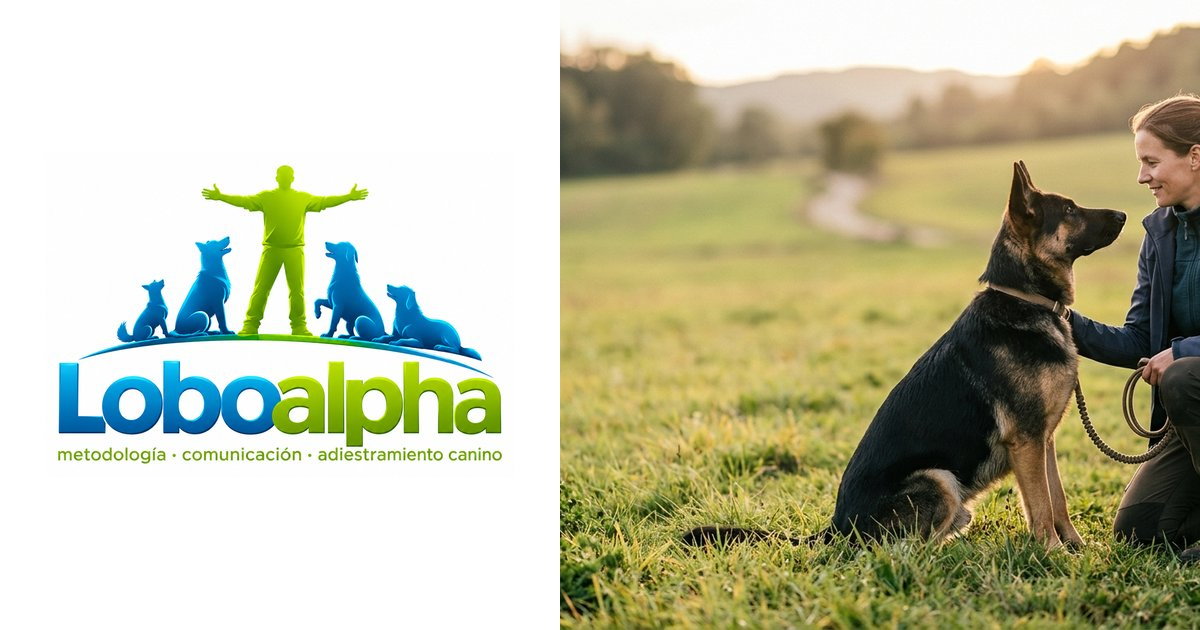
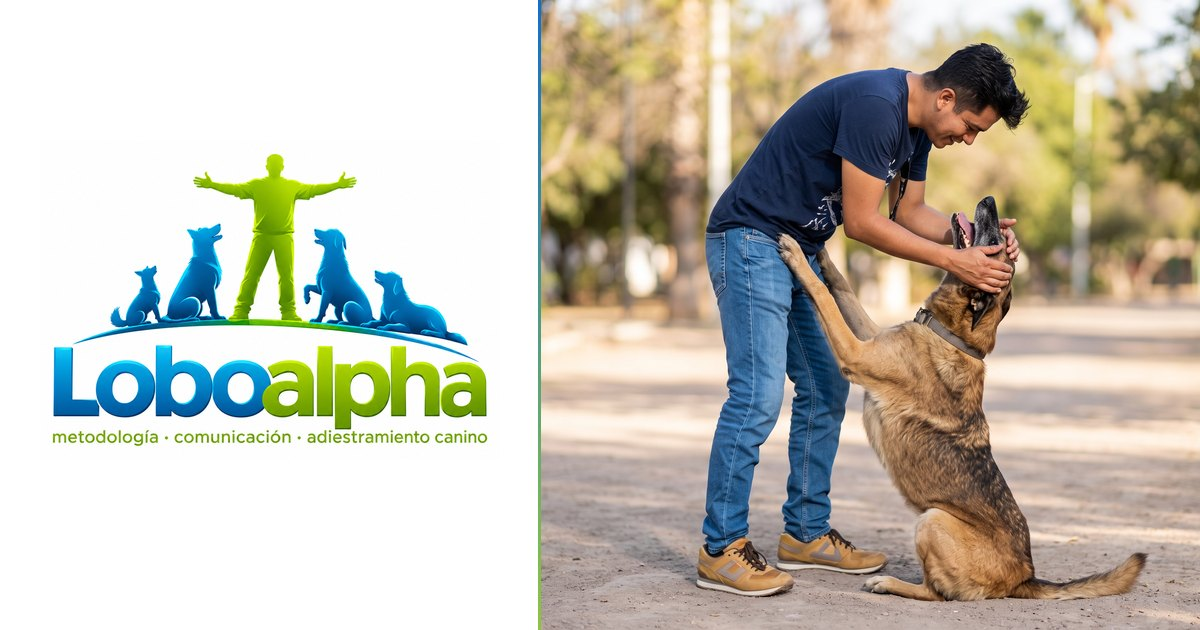
feat: configurar whatsapp +52 8186866182, mensajes cta y nueva imagen OpenGraph con Javier Banos

diff --git a/index.html b/index.html
@@ -57,6 +57,7 @@
         "slogan": "Metodología · Comunicación · Adiestramiento canino",
         "description": "Psicología, comportamiento, método natural de adiestramiento y comunicación intuitiva con animales en Monterrey y área metropolitana. Facilitado por Javier Baños.",
         "url": "https://www.loboalpha.com/",
+        "telephone": "+528186866182",
         "logo": "https://www.loboalpha.com/assets/img/logo-loboalpha-480.png",
         "image": "https://www.loboalpha.com/assets/img/og-loboalpha.jpg",
         "address": {
@@ -1018,9 +1019,10 @@
 
       <div class="footer-col">
         <h3>Contacto</h3>
-        <a class="footer-wa" href="#contacto" data-wa data-wa-msg="Hola Javier, quisiera información sobre los servicios de Loboalpha en Monterrey.">
-          <svg class="ico" aria-hidden="true"><use href="#i-whatsapp"/></svg> Escríbenos por WhatsApp
+        <a class="footer-wa" href="https://wa.me/528186866182?text=Hola%20Javier%2C%20quisiera%20informaci%C3%B3n%20sobre%20los%20servicios%20de%20Loboalpha%20en%20Monterrey." data-wa data-wa-msg="Hola Javier, quisiera información sobre los servicios de Loboalpha en Monterrey.">
+          <svg class="ico" aria-hidden="true"><use href="#i-whatsapp"/></svg> +52 81 8686 6182
         </a>
+        <p style="margin-top: .6rem; font-size: .88rem; color: #a9bbd0;">Atención directa por WhatsApp · Monterrey, N.L.</p>
         <h3 class="mt">Síguenos</h3>
         <ul class="socials">
           <li><a href="#contacto" data-social="instagram" aria-label="Loboalpha en Instagram"><svg aria-hidden="true"><use href="#i-instagram"/></svg></a></li>

diff --git a/assets/js/main.js b/assets/js/main.js
@@ -6,11 +6,10 @@
   "use strict";
 
   /* ---------- Configuración central ----------
-     IMPORTANTE: reemplazar por el número real de WhatsApp de Loboalpha
-     en formato internacional, solo dígitos (ej. 52 + lada + número).
-     Mientras esté vacío, los botones llevan a la sección de contacto. */
+     WhatsApp oficial de Loboalpha / Javier Baños: +52 81 8686 6182
+     Formato internacional sin signos: 528186866182 */
   const CONFIG = Object.freeze({
-    whatsappNumber: "", // ej. "5215512345678"
+    whatsappNumber: "528186866182",
     social: {
       instagram: "", // ej. "https://www.instagram.com/loboalpha"
       facebook: "",
@@ -23,7 +22,7 @@
   doc.classList.add("js");
 
   /* ---------- WhatsApp ---------- */
-  const DEFAULT_MSG = "Hola Loboalpha, me gustaría agendar una valoración para mi perro.";
+  const DEFAULT_MSG = "Hola Javier, me gustaría agendar una valoración para mi perro en Loboalpha.";
   const waLink = (msg) =>
     `https://wa.me/${CONFIG.whatsappNumber}?text=${encodeURIComponent(msg || DEFAULT_MSG)}`;
 

diff --git a/scripts/build_images.py b/scripts/build_images.py
@@ -124,27 +124,52 @@ def build_logo() -> Image.Image:
 
 
 def build_og(logo_trimmed: Image.Image) -> None:
-    hero_src = find_raw("hero")
     W, H = 1200, 630
     canvas = Image.new("RGB", (W, H), (255, 255, 255))
-    if hero_src:
-        hero = ImageOps.exif_transpose(Image.open(hero_src)).convert("RGB")
-        photo_w = 640
+    photo_w = 660
+
+    # Preferimos la foto real de Javier Baños con su perro
+    jb_src = find_raw("javier-banos")
+    if jb_src:
+        jb = ImageOps.exif_transpose(Image.open(jb_src)).convert("RGB")
+        jw, jh = jb.size
+        target_h = jh
+        target_w = int(target_h * (photo_w / H))
+        if target_w > jw:
+            target_w = jw
+            target_h = int(target_w / (photo_w / H))
+        crop_left = int((jw - target_w) * 0.45)
+        crop_top = int((jh - target_h) * 0.2)
+        jb_crop = jb.crop((crop_left, crop_top, crop_left + target_w, crop_top + target_h))
+        jb_resized = jb_crop.resize((photo_w, H), Image.LANCZOS)
+        canvas.paste(jb_resized, (W - photo_w, 0))
+    elif find_raw("hero"):
+        hero = ImageOps.exif_transpose(Image.open(find_raw("hero"))).convert("RGB")
         hero = crop_to_aspect(hero, photo_w / H)
-        hero = hero.resize((photo_w, H), Image.LANCZOS)
-        canvas.paste(hero, (W - photo_w, 0))
-    # Panel blanco con el logotipo Ãntegro
-    panel_w = 560
-    logo_w = 470
-    logo_h = round(logo_w * logo_trimmed.height / logo_trimmed.width)
-    lg = logo_trimmed.resize((logo_w, logo_h), Image.LANCZOS)
-    canvas.paste(Image.new("RGB", (panel_w, H), (255, 255, 255)), (0, 0))
-    canvas.paste(lg, ((panel_w - logo_w) // 2, (H - logo_h) // 2))
+        canvas.paste(hero.resize((photo_w, H), Image.LANCZOS), (W - photo_w, 0))
+
+    # Panel blanco para el logotipo Loboalpha
+    panel_w = W - photo_w
+    logo_target_w = 460
+    logo_target_h = round(logo_target_w * logo_trimmed.height / logo_trimmed.width)
+    lg = logo_trimmed.resize((logo_target_w, logo_target_h), Image.LANCZOS)
+    canvas.paste(lg, ((panel_w - logo_target_w) // 2, (H - logo_target_h) // 2 - 15))
+
+    # Línea divisoria de marca
+    from PIL import ImageDraw
+    draw = ImageDraw.Draw(canvas)
+    for y in range(H):
+        ratio = y / H
+        r = int(15 * (1 - ratio) + 140 * ratio)
+        g = int(111 * (1 - ratio) + 198 * ratio)
+        b = int(209 * (1 - ratio) + 63 * ratio)
+        draw.line([(panel_w - 2, y), (panel_w, y)], fill=(r, g, b))
+
     dest = OUT / "og-loboalpha.jpg"
-    quality = 85
+    quality = 86
     while True:
         canvas.save(dest, "JPEG", quality=quality, optimize=True, progressive=True)
-        if dest.stat().st_size < 300 * 1024 or quality <= 50:
+        if dest.stat().st_size < 280 * 1024 or quality <= 50:
             break
         quality -= 5
     print(f"[OK] OG image: {round(dest.stat().st_size / 1024, 1)} KB (q={quality})")
